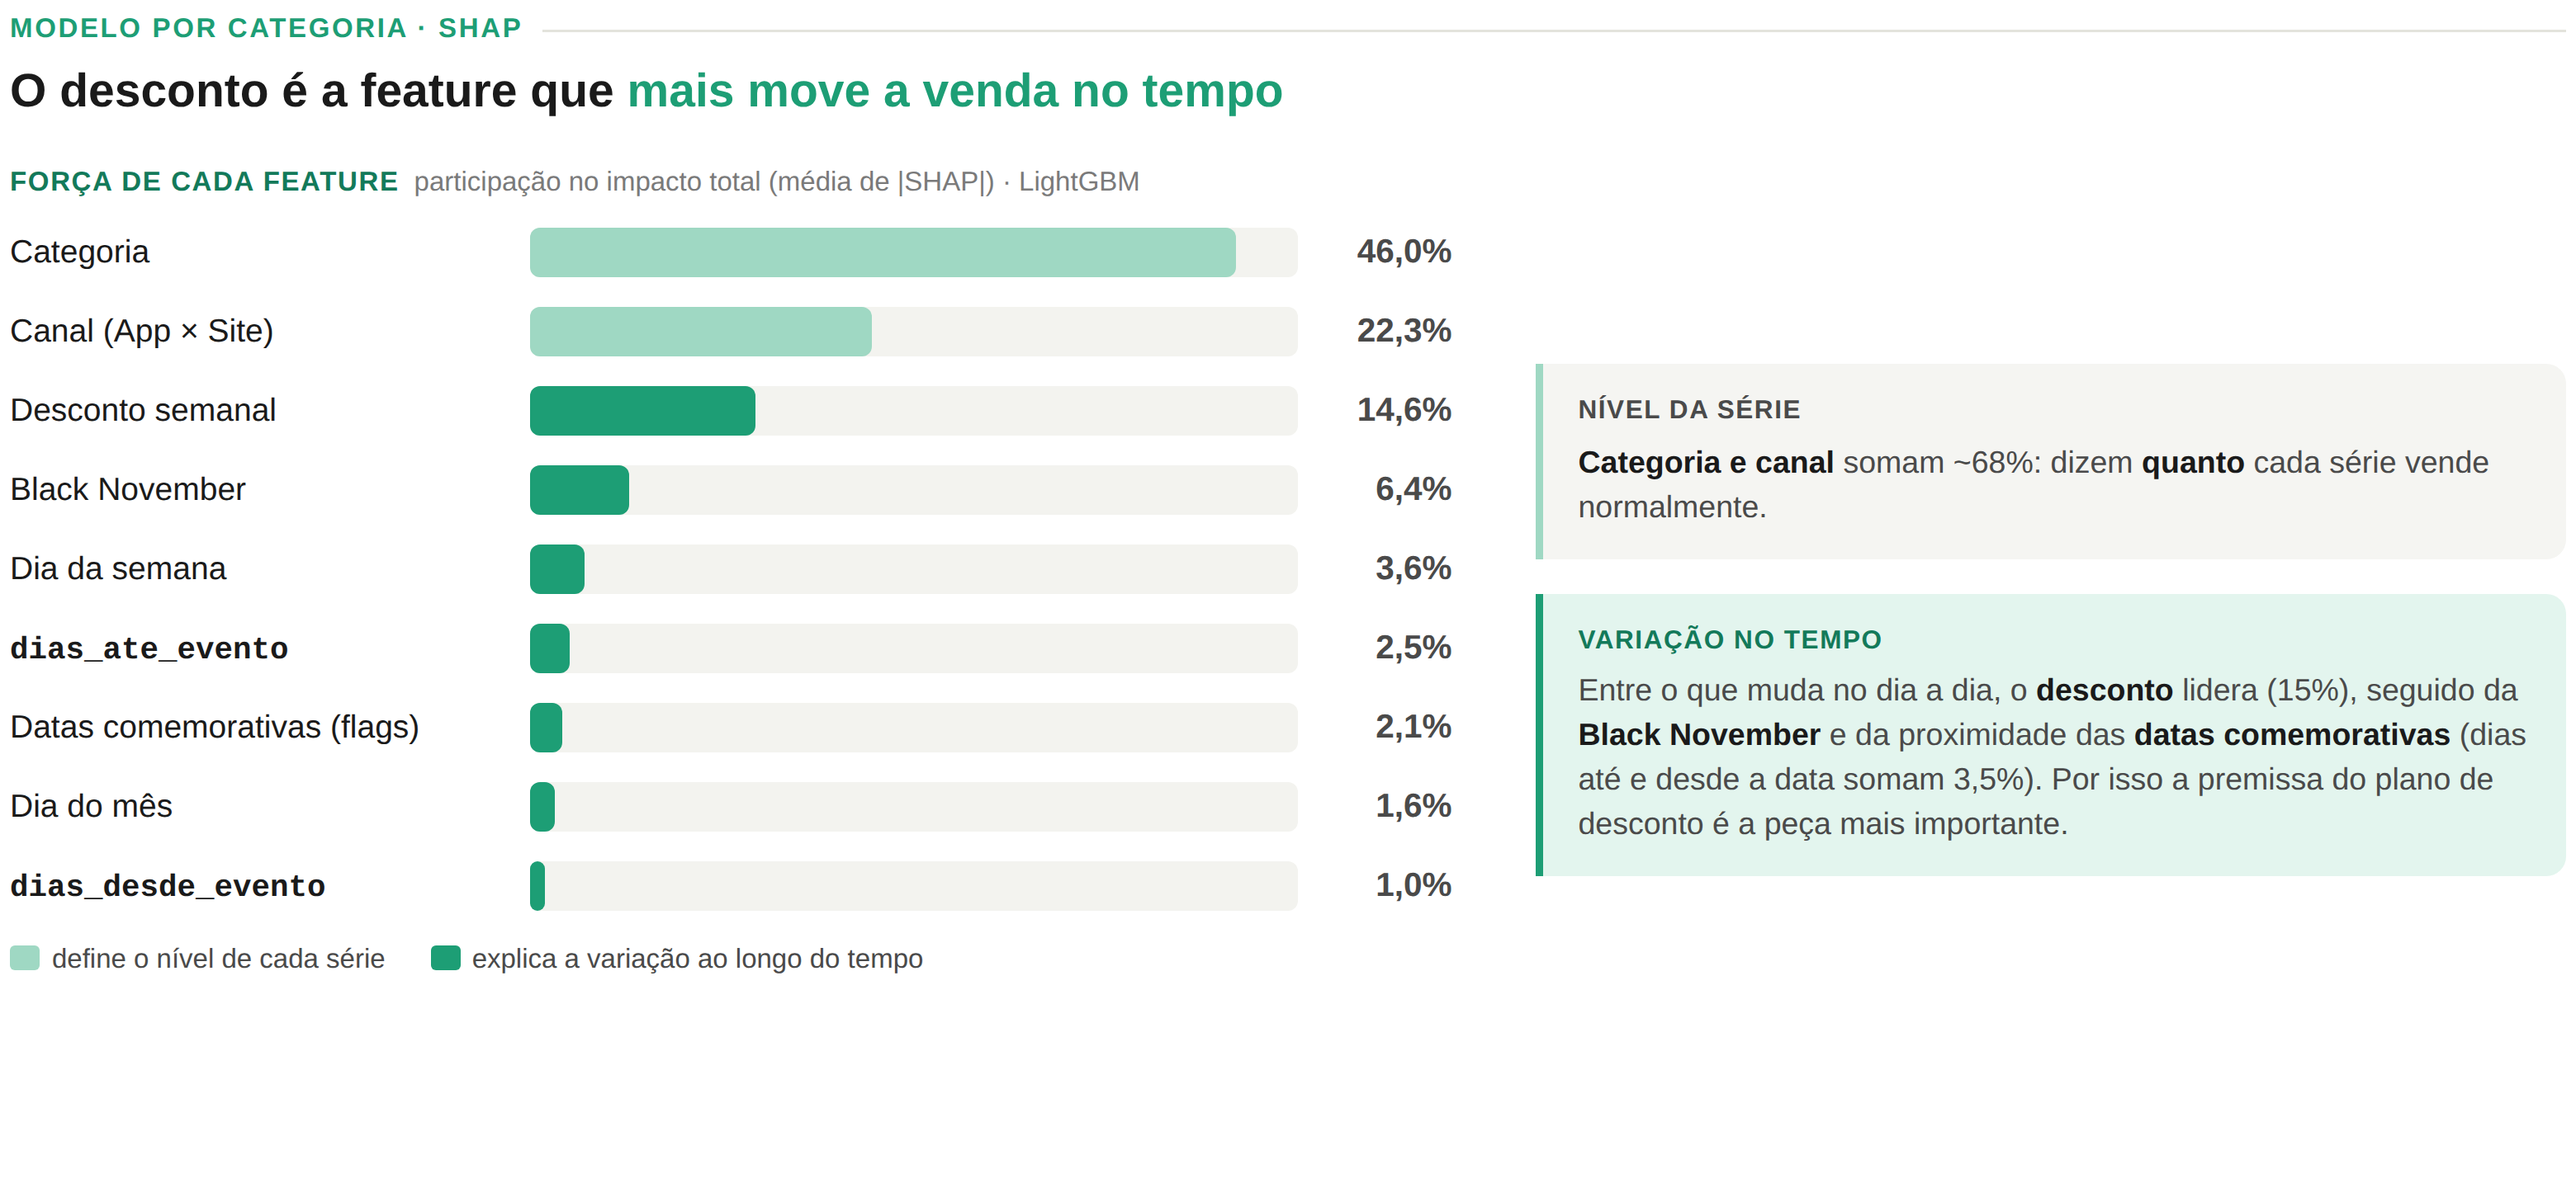
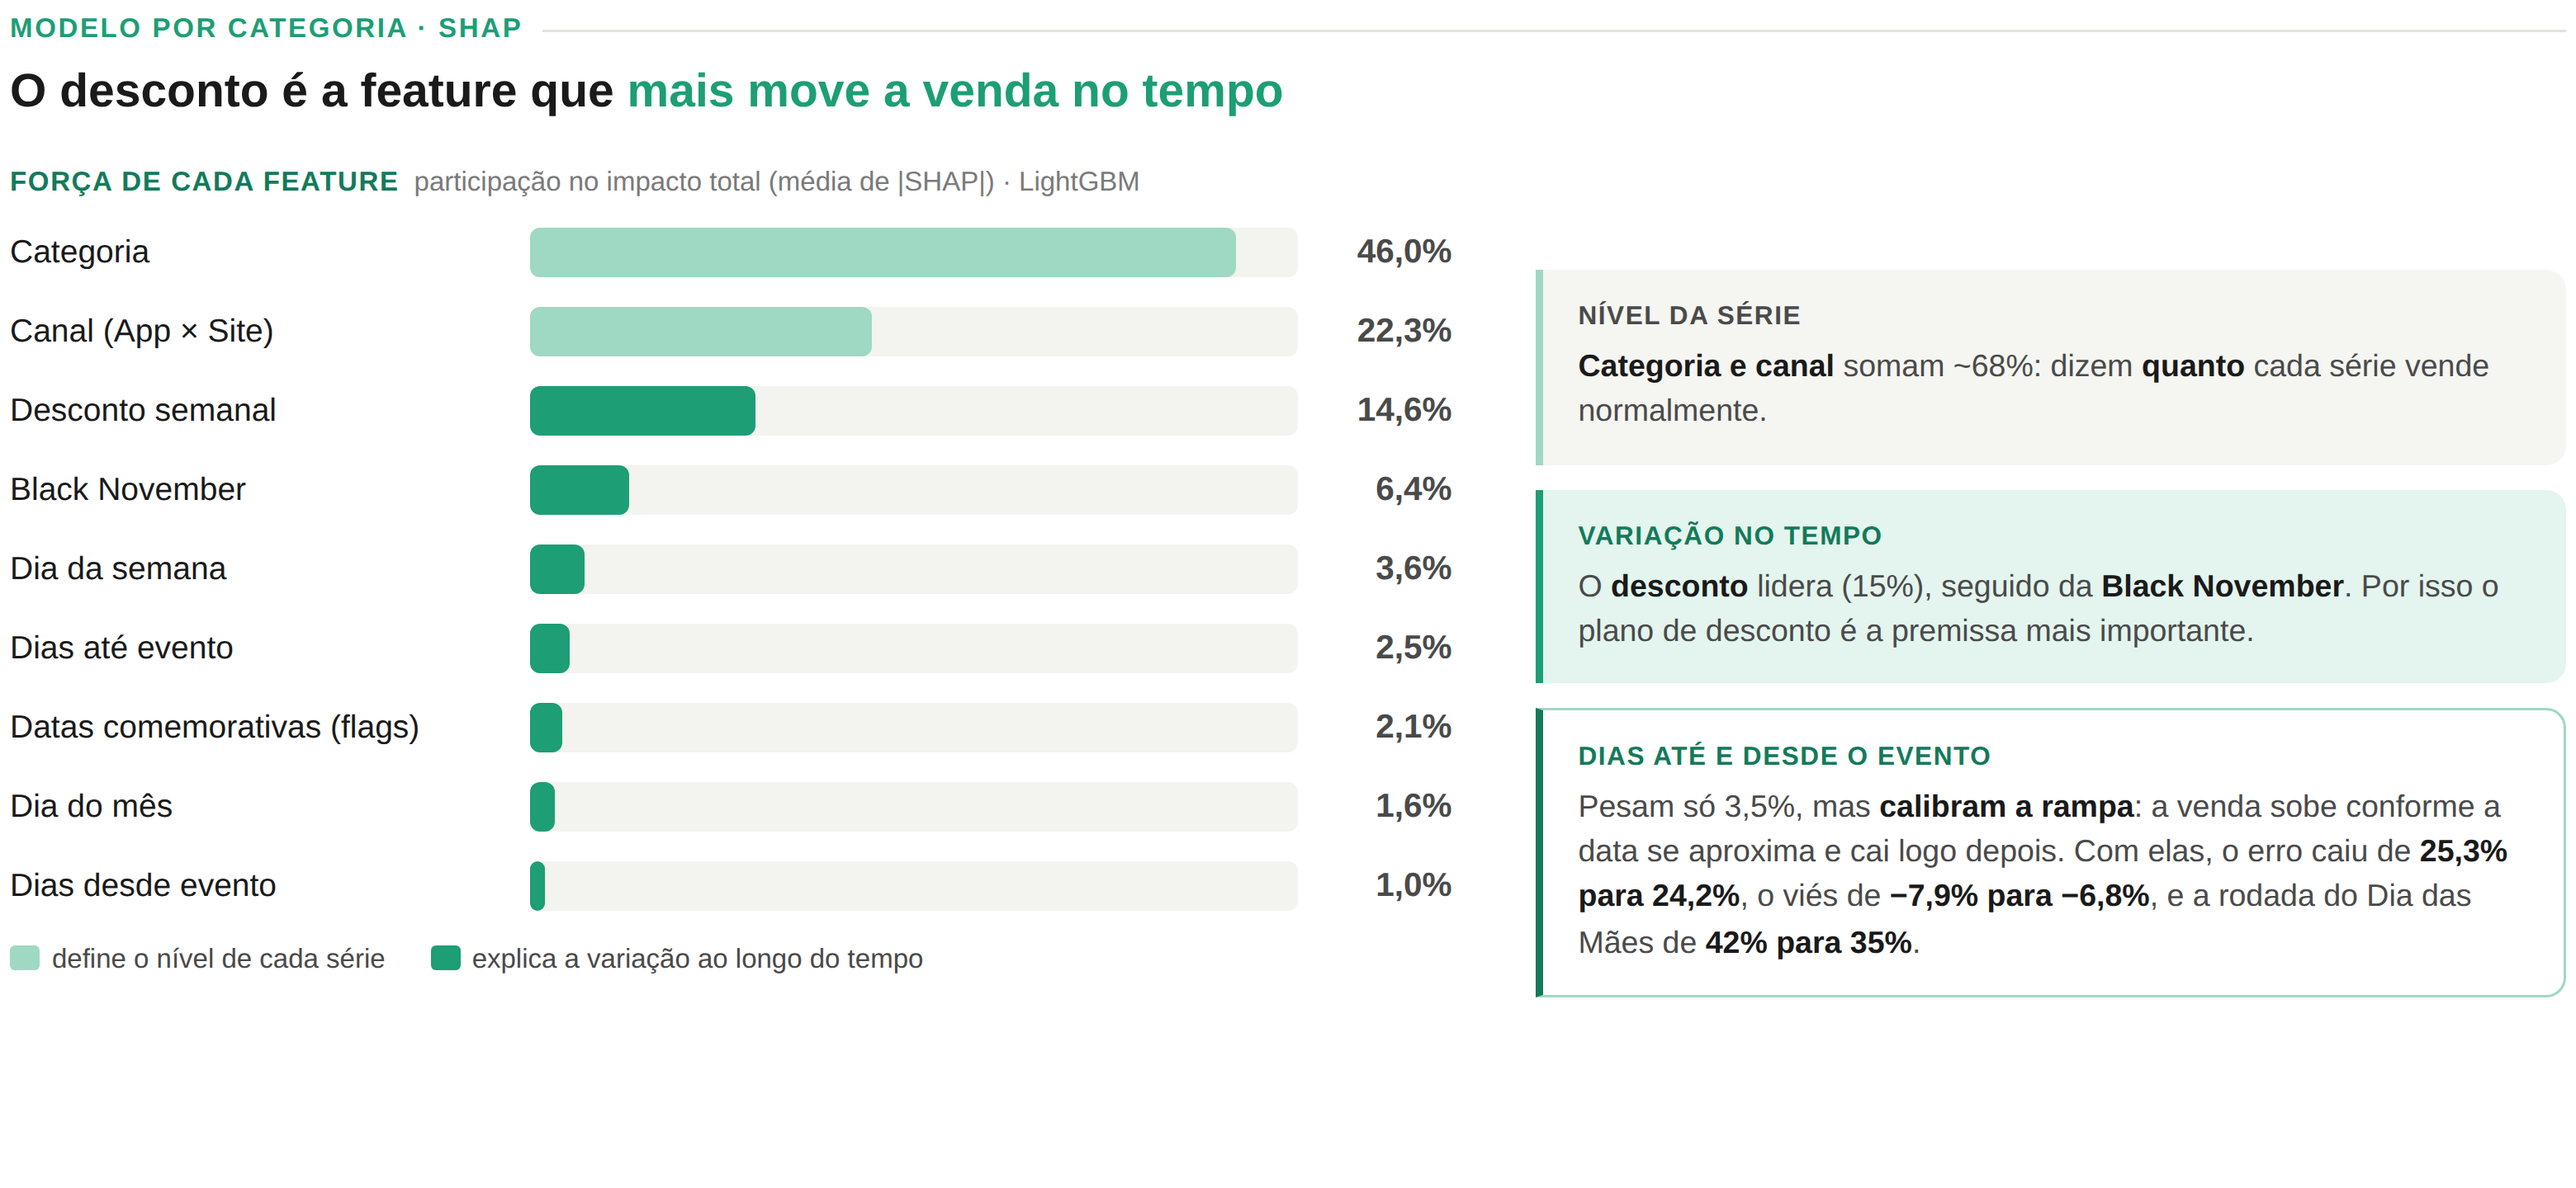
Widget SHAP: nomes legíveis e impacto das features de distância às datas
Claude-Session: https://claude.ai/code/session_01NUJZKTcM8cs9QBTcUeuacF

Changed region(s): [[0.5907, 0.25, 1.0, 0.8438], [0.0, 0.7188, 0.1244, 0.7812], [0.0, 0.5312, 0.1244, 0.5625]]

diff --git a/apresentacao/widgets/17_shap.html b/apresentacao/widgets/17_shap.html
@@ -25,11 +25,12 @@
   .v { font-weight: 700; font-size: 13.5px; text-align: right; color: var(--tinta-2); }
   .leg { display: flex; gap: 18px; font-size: 11px; color: var(--tinta-2); margin-top: 14px; }
   .leg i { display: inline-block; width: 12px; height: 10px; border-radius: 2px; margin-right: 5px; vertical-align: -1px; }
-  .lado { display: flex; flex-direction: column; gap: 14px; justify-content: center; padding-bottom: 40px; }
+  .lado { display: flex; flex-direction: column; gap: 10px; justify-content: center; padding-bottom: 30px; }
   .card { border-radius: 0 8px 8px 0; border-left: 3px solid; padding: 12px 14px; font-size: 12.5px; line-height: 1.45; color: var(--tinta-2); }
   .card b { color: var(--tinta); }
   .card .t { display: block; font-size: 10.5px; font-weight: 700; text-transform: uppercase; letter-spacing: .05em; margin-bottom: 3px; }
   .card.a { background: #f5f5f2; border-color: #9fd8c3; } .card.a .t { color: var(--tinta-2); }
+  .card.c { background: #fff; border: 1px solid #9fd8c3; border-left: 3px solid var(--verde-escuro); } .card.c .t { color: var(--verde-escuro); }
   .card.b { background: var(--verde-claro); border-color: var(--verde); } .card.b .t { color: var(--verde-escuro); }
 </style>
 </head>
@@ -40,12 +41,13 @@
   <div class="colunas">
     <div>
       <div class="tit">Força de cada feature<small>participação no impacto total (média de |SHAP|) · LightGBM</small></div>
-      <div class="barras"><div class="linha-b"><span class="nm">Categoria</span><div class="trilho"><i style="width:92.0%;background:#9fd8c3"></i></div><span class="v">46,0%</span></div><div class="linha-b"><span class="nm">Canal (App × Site)</span><div class="trilho"><i style="width:44.6%;background:#9fd8c3"></i></div><span class="v">22,3%</span></div><div class="linha-b"><span class="nm">Desconto semanal</span><div class="trilho"><i style="width:29.2%;background:#1d9e75"></i></div><span class="v">14,6%</span></div><div class="linha-b"><span class="nm">Black November</span><div class="trilho"><i style="width:12.8%;background:#1d9e75"></i></div><span class="v">6,4%</span></div><div class="linha-b"><span class="nm">Dia da semana</span><div class="trilho"><i style="width:7.2%;background:#1d9e75"></i></div><span class="v">3,6%</span></div><div class="linha-b"><span class="nm"><code>dias_ate_evento</code></span><div class="trilho"><i style="width:5.0%;background:#1d9e75"></i></div><span class="v">2,5%</span></div><div class="linha-b"><span class="nm">Datas comemorativas (flags)</span><div class="trilho"><i style="width:4.2%;background:#1d9e75"></i></div><span class="v">2,1%</span></div><div class="linha-b"><span class="nm">Dia do mês</span><div class="trilho"><i style="width:3.2%;background:#1d9e75"></i></div><span class="v">1,6%</span></div><div class="linha-b"><span class="nm"><code>dias_desde_evento</code></span><div class="trilho"><i style="width:2.0%;background:#1d9e75"></i></div><span class="v">1,0%</span></div></div>
+      <div class="barras"><div class="linha-b"><span class="nm">Categoria</span><div class="trilho"><i style="width:92.0%;background:#9fd8c3"></i></div><span class="v">46,0%</span></div><div class="linha-b"><span class="nm">Canal (App × Site)</span><div class="trilho"><i style="width:44.6%;background:#9fd8c3"></i></div><span class="v">22,3%</span></div><div class="linha-b"><span class="nm">Desconto semanal</span><div class="trilho"><i style="width:29.2%;background:#1d9e75"></i></div><span class="v">14,6%</span></div><div class="linha-b"><span class="nm">Black November</span><div class="trilho"><i style="width:12.8%;background:#1d9e75"></i></div><span class="v">6,4%</span></div><div class="linha-b"><span class="nm">Dia da semana</span><div class="trilho"><i style="width:7.2%;background:#1d9e75"></i></div><span class="v">3,6%</span></div><div class="linha-b"><span class="nm">Dias até evento</span><div class="trilho"><i style="width:5.0%;background:#1d9e75"></i></div><span class="v">2,5%</span></div><div class="linha-b"><span class="nm">Datas comemorativas (flags)</span><div class="trilho"><i style="width:4.2%;background:#1d9e75"></i></div><span class="v">2,1%</span></div><div class="linha-b"><span class="nm">Dia do mês</span><div class="trilho"><i style="width:3.2%;background:#1d9e75"></i></div><span class="v">1,6%</span></div><div class="linha-b"><span class="nm">Dias desde evento</span><div class="trilho"><i style="width:2.0%;background:#1d9e75"></i></div><span class="v">1,0%</span></div></div>
       <div class="leg"><span><i style="background:#9fd8c3"></i>define o nível de cada série</span><span><i style="background:#1d9e75"></i>explica a variação ao longo do tempo</span></div>
     </div>
     <div class="lado">
       <div class="card a"><span class="t">Nível da série</span><b>Categoria e canal</b> somam ~68%: dizem <b>quanto</b> cada série vende normalmente.</div>
-      <div class="card b"><span class="t">Variação no tempo</span>Entre o que muda no dia a dia, o <b>desconto</b> lidera (15%), seguido da <b>Black November</b> e da proximidade das <b>datas comemorativas</b> (dias até e desde a data somam 3,5%). Por isso a premissa do plano de desconto é a peça mais importante.</div>
+      <div class="card b"><span class="t">Variação no tempo</span>O <b>desconto</b> lidera (15%), seguido da <b>Black November</b>. Por isso o plano de desconto é a premissa mais importante.</div>
+      <div class="card c"><span class="t">Dias até e desde o evento</span>Pesam só 3,5%, mas <b>calibram a rampa</b>: a venda sobe conforme a data se aproxima e cai logo depois. Com elas, o erro caiu de <b>25,3% para 24,2%</b>, o viés de <b>−7,9% para −6,8%</b>, e a rodada do Dia das Mães de <b>42% para 35%</b>.</div>
     </div>
   </div>
 </div>
